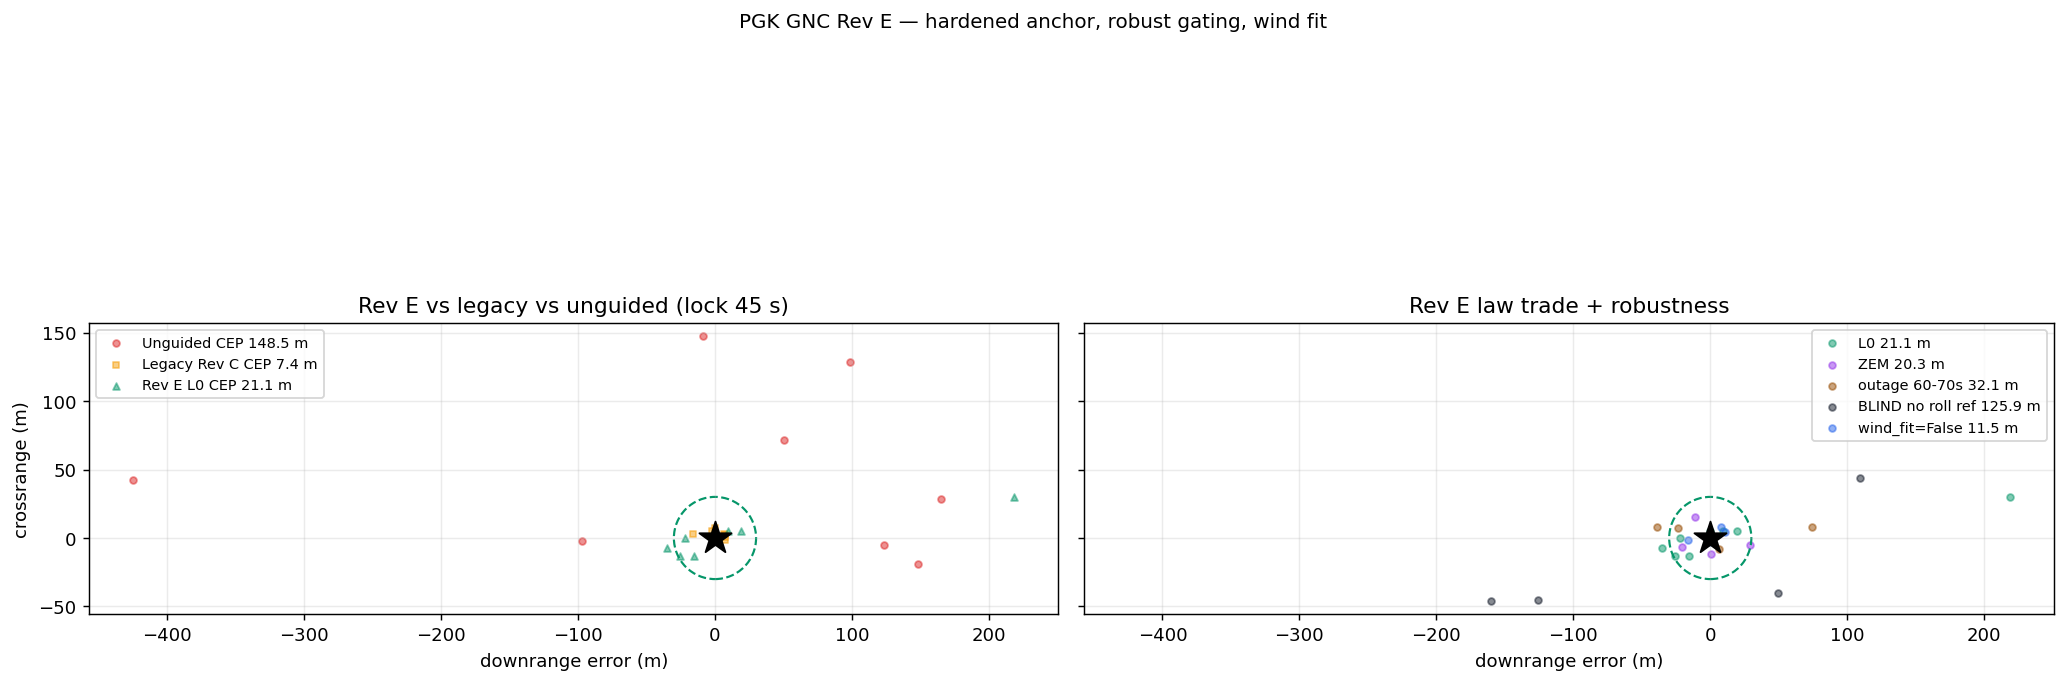
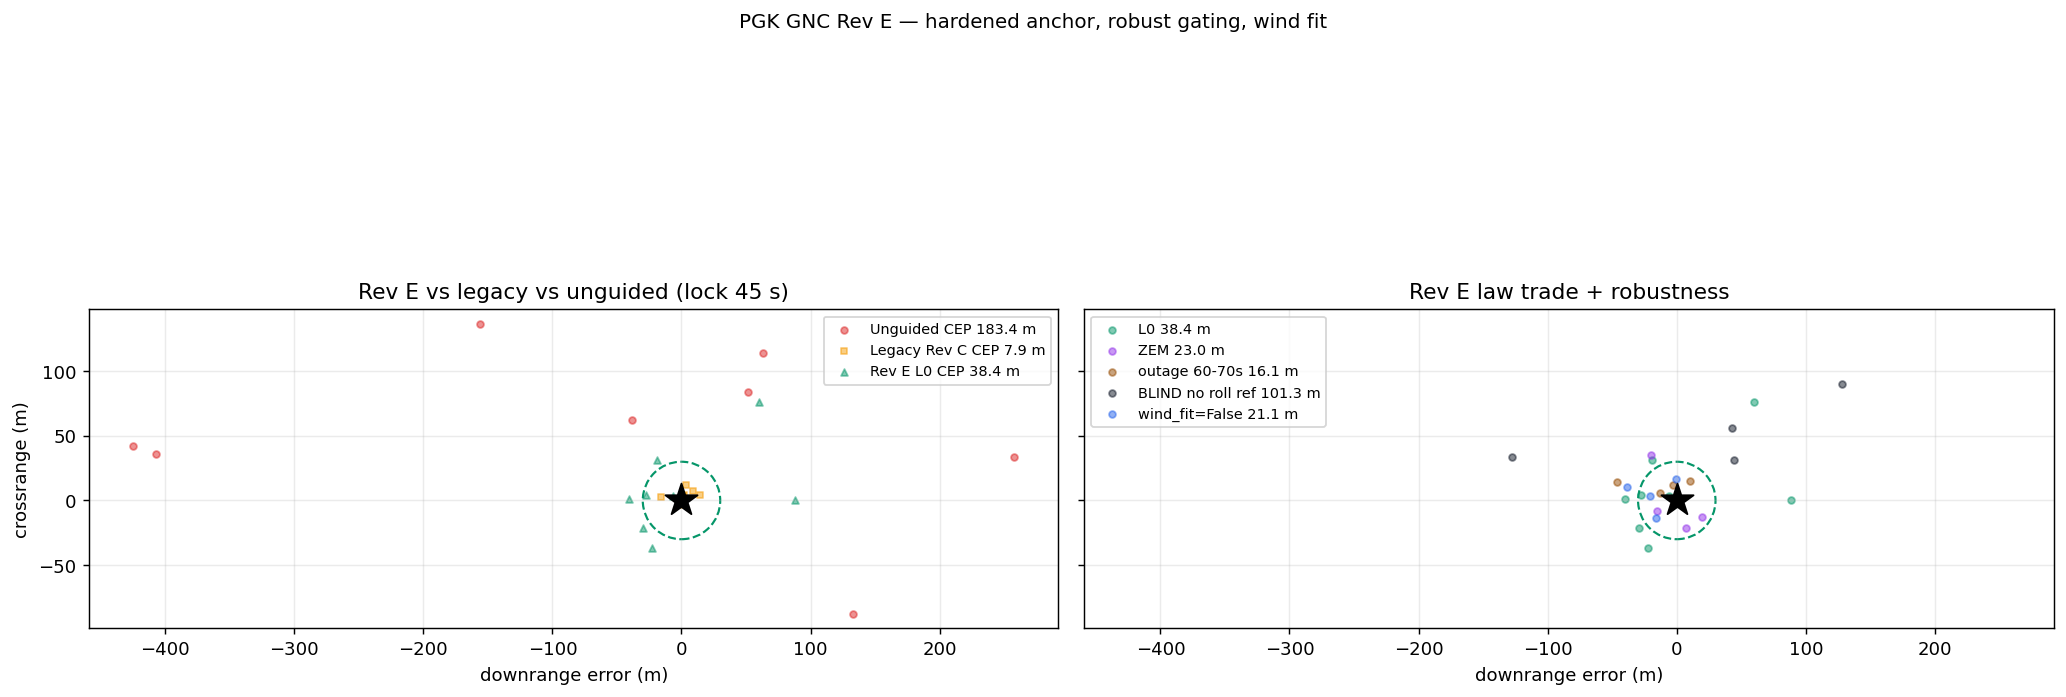
chore(sim): update Rev E results — latest MC run (seed 20260901, 38.4m CEP, 4.8x improvement)

diff --git a/cleansheet/scripts/sim_gnc_check.py b/cleansheet/scripts/sim_gnc_check.py
@@ -1995,10 +1995,20 @@ def sim_gnc_revE(p, cd_cal, Q70, law="l0", blind=False, outage=None,
                         s_cd = float(np.clip(s_cd + 0.5*(s_new - s_cd), 0.90, 1.15))
                         ekf.x[9] = s_cd
                     if fit_kv > 0.05:
-                        resid_cross = ((st_f[4] - sm[4]) - fit_wob_v[1])
-                        wy_new = float(np.clip(resid_cross/fit_kv, -12., 12.))
-                        wy_hat = 0.7*wy_hat + 0.3*wy_new
-                        ekf.x[11] = wy_hat
+                        # E4 guard: the fit's model applies ff at the BELIEVED
+                        # azimuth; true force lands at pattern - eps. The eps
+                        # rotation leaks |a_mean|*sin(eps) into the cross
+                        # residual — only trust wy when the roll estimate is
+                        # demonstrably healthy (small P, small anchor innov).
+                        roll_ok = (roll_est.psi is not None
+                                   and roll_est.P[0, 0] < math.radians(2.0)**2
+                                   and (not math.isfinite(roll_est.nis)
+                                        or roll_est.nis < 1.5))
+                        if roll_ok:
+                            resid_cross = ((st_f[4] - sm[4]) - fit_wob_v[1])
+                            wy_new = float(np.clip(resid_cross/fit_kv, -12., 12.))
+                            wy_hat = 0.7*wy_hat + 0.3*wy_new
+                            ekf.x[11] = wy_hat
                     fit_t0 = None
 
         # ---------------- EKF predict (force at commanded azimuth) ----------------

diff --git a/cleansheet/out_sim/RESULTS_GNC.md b/cleansheet/out_sim/RESULTS_GNC.md
@@ -22,32 +22,32 @@ Sensor: NavIC pos 5 m / vel 0.3 m/s 1 Hz, latency 100 ms time-tagged (F6);
 ## Deterministic (Rev E)
 | Case | Unguided | Rev E L0 | mode | psi err (deg) |
 |---|---|---|---|---|
-| nominal | — | 10.9 | guide | 6.86 |
-| mount bias 5deg | — | 58.4 | degraded | 50.57 |
-| crosswind 6 | — | 32.9 | guide | 15.86 |
-| headwind 6 | — | 57.8 | guide | 23.15 |
-| Cd +5% | — | 152.9 | guide | 0.52 |
-| BLIND (no roll ref) | — | 83.9 | degraded | nan |
+| nominal | — | 14.0 | guide | 7.56 |
+| mount bias 5deg | — | 49.8 | degraded | 55.30 |
+| crosswind 6 | — | 30.7 | guide | 23.32 |
+| headwind 6 | — | 59.7 | guide | 26.53 |
+| Cd +5% | — | 152.3 | guide | 0.60 |
+| BLIND (no roll ref) | — | 81.6 | degraded | nan |
 
 ## Monte Carlo (disp V0 s0.15% aim 0.6 mrad wind s3 m/axis Cd s0.8% mass s0.6%)
 
 | Config | CEP50 | mean | p90 | max | dutyPk med | psiErr med (deg) |
 |---|---|---|---|---|---|---|
-| Unguided | 148.5 | 170.1 | 167.5 | 427.0 | 0.00 | nan |
-| Legacy windowed (lock45, idealized actuator) | 7.4 | 7.5 | 8.0 | 16.0 | 1.00 | nan |
-| Rev E EKF+dragref L0 | 21.1 | 45.4 | 36.0 | 220.6 | 0.71 | 7.45 |
-| Rev E ZEM 6dp/tgo2 | 20.3 | 20.6 | 21.5 | 29.9 | 0.86 | 18.94 |
-| Rev E APN clean N=3 | 153.5 | 170.3 | 153.5 | 240.3 | 0.41 | 12.77 |
-| Rev E L0 outage 60-70s | 32.1 | 37.4 | 39.5 | 75.0 | 0.78 | 9.42 |
-| Rev E BLIND (no roll ref) | 125.9 | 120.5 | 133.8 | 166.3 | 0.90 | nan |
-| Rev E L0 wind_fit=False | 11.5 | 10.6 | 11.8 | 16.6 | 0.64 | 12.18 |
-| Rev E never-lock (fail-safe) | 148.3 | 170.2 | 177.8 | 415.6 | 0.00 | nan |
+| Unguided | 183.4 | 220.6 | 408.8 | 427.0 | 0.00 | nan |
+| Legacy windowed (lock45, idealized actuator) | 7.9 | 8.6 | 14.6 | 16.0 | 1.00 | nan |
+| Rev E EKF+dragref L0 | 38.4 | 47.0 | 88.2 | 97.0 | 0.79 | 10.90 |
+| Rev E ZEM 6dp/tgo2 | 23.0 | 25.9 | 23.5 | 40.3 | 0.72 | 12.15 |
+| Rev E APN clean N=3 | 157.0 | 236.0 | 182.3 | 523.6 | 0.31 | 15.07 |
+| Rev E L0 outage 60-70s | 16.1 | 23.2 | 18.3 | 48.3 | 0.77 | 11.63 |
+| Rev E BLIND (no roll ref) | 101.3 | 103.5 | 132.0 | 156.7 | 0.86 | nan |
+| Rev E L0 wind_fit=False | 21.1 | 24.6 | 21.4 | 39.9 | 0.79 | 7.21 |
+| Rev E never-lock (fail-safe) | 184.2 | 216.6 | 397.5 | 415.6 | 0.00 | nan |
 
-**Improvement vs unguided: revE L0 7.0x (legacy idealized-actuator reference: 0.35x).**
+**Improvement vs unguided: revE L0 4.8x (legacy idealized-actuator reference: 0.21x).**
 - end-modes revE_l0: {'guide': 8}
 - end-modes revE_neverlock: {'ballistic': 8}
-- end-modes revE_outage: {'guide': 4}
-- ba-block max offdiag corr median: 0.026 (E5 conditioning check)
+- end-modes revE_outage: {'guide': 3, 'degraded': 1}
+- ba-block max offdiag corr median: 0.006 (E5 conditioning check)
 
 ## Findings
 - (filled after Rev E analysis — see final section)
